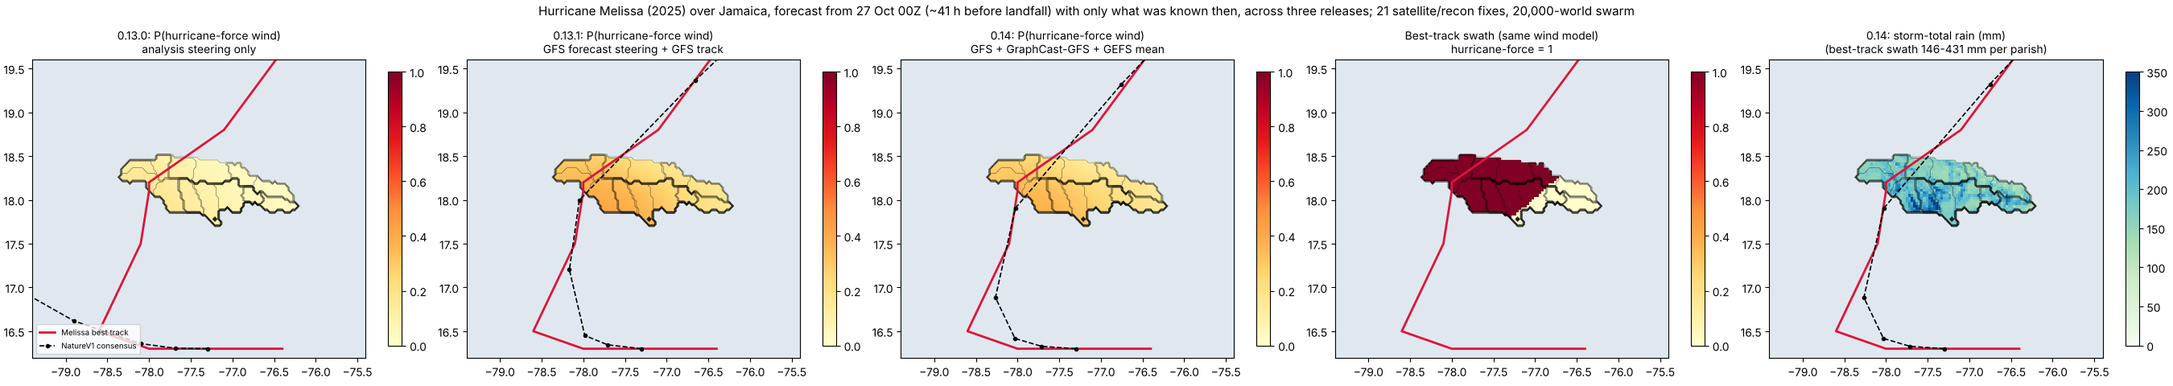
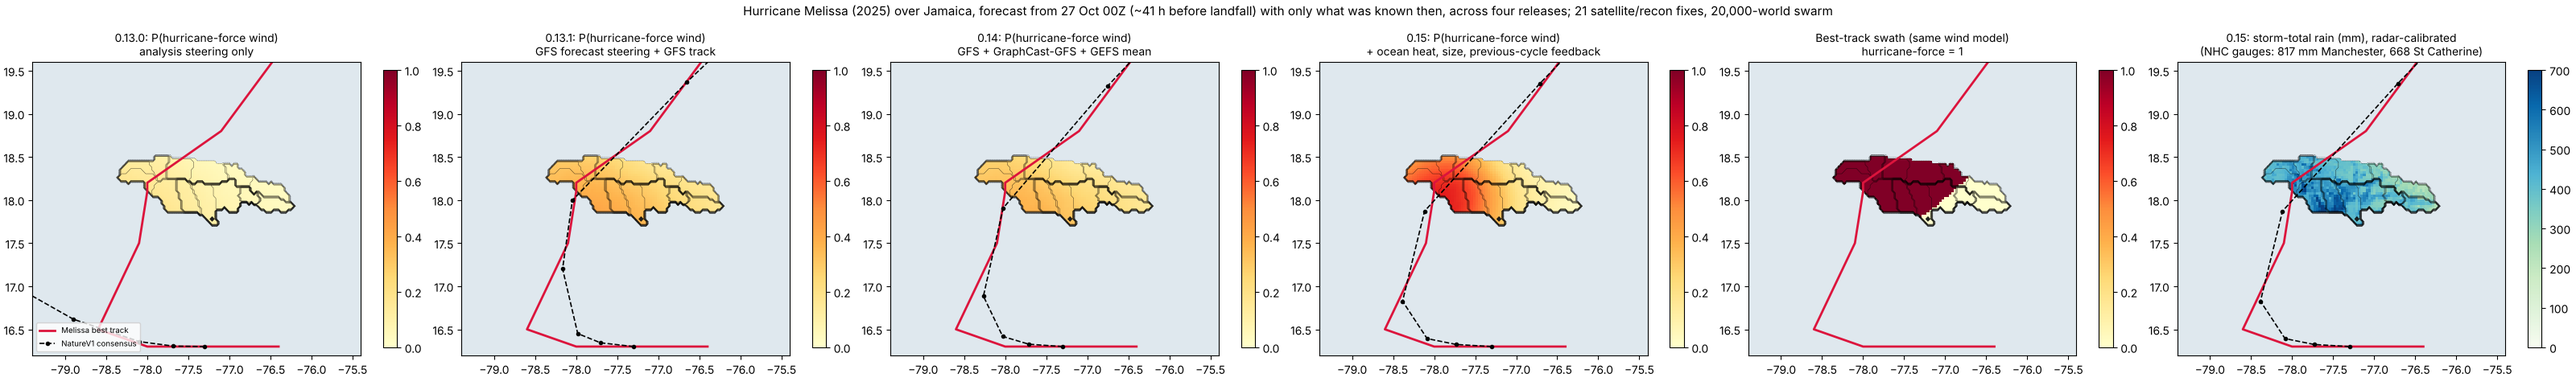
0.15: Melissa replayed cycle by cycle (docs, four-release figure), landfall figure layout
Claude-Session: https://claude.ai/code/session_01J6bgxhzPaCJV6PiUzkT4Vd

diff --git a/natureweather/naturev1/swarm/plot.py b/natureweather/naturev1/swarm/plot.py
@@ -102,14 +102,15 @@ def landfall_figure(run: dict, summary: dict, country: str = "Jamaica", extent=N
     if extent is None:
         ii, jj = np.nonzero(np.isin(region.unit, ids))
         extent = (region.lon[jj.min()] - 1.2, region.lon[jj.max()] + 1.2, region.lat[ii.min()] - 1.0, region.lat[ii.max()] + 1.0)
-    fig = plt.figure(figsize=(16, 7.2), constrained_layout=True)
-    gs = GridSpec(1, 2, width_ratios=[1.25, 1.0], figure=fig)
+    # the map on top at full width, the text panel below it: a wide parish table no longer squeezes the map
+    fig = plt.figure(figsize=(15, 12.5))
+    gs = GridSpec(2, 1, height_ratios=[1.0, 0.95], figure=fig, left=0.05, right=0.98, top=0.95, bottom=0.02, hspace=0.08)
     ax = fig.add_subplot(gs[0, 0])
     ax.set_facecolor("#dfe8ee")
     land = np.where(region.land, 1.0, np.nan)
     ax.pcolormesh(region.lon, region.lat, land, cmap="Greys", vmin=0, vmax=4, shading="auto")
     mesh = ax.pcolormesh(region.lon, region.lat, grid, cmap="YlOrRd", vmin=34, vmax=140, shading="auto")
-    fig.colorbar(mesh, ax=ax, shrink=0.75, label="peak sustained wind if hit (kt)")
+    fig.colorbar(mesh, ax=ax, shrink=0.85, pad=0.02, label="peak sustained wind if hit (kt)")
     ax.contour(region.lon, region.lat, np.where(region.land, region.unit, -1), levels=np.arange(-0.5, len(region.names)), colors="k", linewidths=0.3)
     t0 = np.datetime64(run["analysis_time"], "m")
     track = np.vstack([[case.lat, case.lon], result["track"]])
@@ -130,16 +131,16 @@ def landfall_figure(run: dict, summary: dict, country: str = "Jamaica", extent=N
         cells = np.nonzero(region.unit == u)
         if cells[0].size and u in by_unit:
             ax.text(float(region.lon[cells[1]].mean()), float(region.lat[cells[0]].mean()), region.names[u].replace("Saint", "St").split(" Parish")[0],
-                    fontsize=6, ha="center", va="center", color="black")
+                    fontsize=7, ha="center", va="center", color="black")
     ax.set_xlim(extent[0], extent[1]); ax.set_ylim(extent[2], extent[3]); ax.set_aspect(1.0 / np.cos(np.radians(np.mean(extent[2:]))))
-    ax.set_title(f"{case.name or case.storm_id}: {country}, parish by parish -- forecast from {str(t0)[:16].replace('T', ' ')}Z", fontsize=10)
-    ax.legend(loc="lower left", fontsize=7)
-    panel = fig.add_subplot(gs[0, 1])
+    ax.set_title(f"{case.name or case.storm_id}: {country}, parish by parish -- forecast from {str(t0)[:16].replace('T', ' ')}Z", fontsize=12)
+    ax.legend(loc="lower left", fontsize=8)
+    panel = fig.add_subplot(gs[1, 0])
     panel.axis("off")
     from .landfall import format_landfall
 
-    panel.text(0.0, 1.0, format_landfall(summary, top=top), family="monospace", fontsize=7.2, va="top", ha="left", transform=panel.transAxes)
-    panel.text(0.0, 0.0, "Research model, not an operational forecast. Storm surge is not modelled.", fontsize=7, va="bottom", transform=panel.transAxes)
+    panel.text(0.0, 1.0, format_landfall(summary, top=top), family="monospace", fontsize=8.2, va="top", ha="left", transform=panel.transAxes)
+    panel.text(0.0, 0.0, "Research model, not an operational forecast. Storm surge is not modelled.", fontsize=8, va="bottom", transform=panel.transAxes)
     return fig
 
 

diff --git a/natureweather/HF_README.md b/natureweather/HF_README.md
@@ -1028,7 +1028,39 @@ they should, and the swarm's shape (its 50% and 90% radii are 0.79 and 1.47 time
 truth's (0.64-0.79 and 1.50-1.66). Before this the swarm was spreading a Jamaica landfall over the whole western
 Caribbean; a world that misses by 300 km at 24 h no longer counts against the parish in its path.
 
-<!-- PENDING 0.15 melissa -->
+**Melissa, replayed cycle by cycle with 0.15.** GFS, GraphCast-GFS and the GEFS mean (the ECMWF mirror is throttled
+from this network); a 20,000-world swarm; each cycle fed the previous cycle's track. What was issued, against what
+happened (landfall near New Hope, Westmoreland, 18.09N 77.97W, about 17 UTC on 28 October at 160 kt; peak 165 kt at
+12 UTC):
+
+| forecast from | before landfall | P(landfall, Jamaica) | centre ashore, median (10-90%) | consensus landfall | intensity then (10-90%) | the RI branch (its probability) | P(peak ≥ cat 4 / cat 5) | track error 24 / 48 / 72 h |
+|---|---|---|---|---|---|---|---|---|
+| 26 Oct 00 UTC | 65 h | 74% | 28 Oct 03 UTC (27 Oct 18 → 28 Oct 15) | 28 Oct 03 UTC, Clarendon | 104 kt (72-140) | 125 kt at landfall, peak 134 (24%) | 63% / 29% | 42 / 158 / 277 km |
+| 26 Oct 12 UTC | 53 h | 80% | 28 Oct 15 UTC (06 → 21) | 28 Oct 13 UTC, St Elizabeth | 110 kt (79-146) | 152 kt, peak 155 (20%) | 100% / 32% | 19 / 57 / 161 km |
+| 27 Oct 00 UTC | 41 h | 76% | 28 Oct 15 UTC (09 → 21) | 28 Oct 14 UTC, St Elizabeth, 18.12N 77.88W | 110 kt (90-133) | 153 kt, peak 162 (8%) | 100% / 23% | 43 / 74 / 215 km |
+
+![Melissa over Jamaica, parish by parish, from 27 October 00 UTC](melissa_landfall.png)
+
+Where it is now right: the landfall point (10 km from the actual at 41 h out), the landfall time (the median two hours
+early with the actual inside a 12-hour band, where 0.14 had put it eight hours early inside a 30-hour band), the
+parish ranking (at 27 Oct 00 UTC the ten parishes the best-track swath gave hurricane-force wind are the top ten by
+P(HU): St Elizabeth 84%, Westmoreland 77%, Manchester 72%, St James 71%, Trelawny 71%, Hanover 64%, Clarendon 56%,
+St Ann 53%, St Catherine 33%, St Mary 20%; the eastern parishes 9-15%; Brier 0.061 against the swath), and the
+landfall probability itself (76% where 0.14 said 41% from the same cycle -- the swarm sized to the cone, 4.16 above).
+Where it is still wrong, said plainly: the consensus intensity, 125 → 116 → 106 kt over the first 48 h against
+135 → 155 → 165 → 105, is the under-forecast of section 4.16's table made flesh -- a storm in the top few percent of
+intensification over the deepest warm water in the basin. The branch that *was* the storm -- 153 kt at landfall,
+peak 162 -- was on the page from 26 October with its probability (24%, 20%, 8%), and the chance of a category-5
+peak sat at 23-32% through all three cycles; a reader of the report had the right scenario and a fair probability
+for it, not a point forecast that said so. Parish timing ran 3-4 hours early (hurricane force into St Elizabeth at
+09:20 UTC, the peak at 13:17, against an eyewall that arrived mid-afternoon), because the consensus moved the storm
+faster than the crawl it actually made. Rain, if hit / wettest cell against the NHC gauge maximum: Manchester
+563 / 747 against 817 mm, St Elizabeth 547 / 787 against 508, Clarendon 483 / 668 against 530, St Catherine
+432 / 593 against 668, Kingston 424 against 567 -- the right magnitude in the centre and south, now that the
+multiplier is in; too much in the far west, where the storm crossed quickest (Westmoreland 689 against 309,
+Hanover 603 against a single gauge at 146), and too little in the east (Portland 397 against 536), because R-CLIPER
+puts the rain under the strongest wind and Melissa's two days of crawling south of the island fed the Blue Mountains
+and St Catherine instead. `melissa_jamaica.png` shows the four releases side by side from 27 October 00 UTC.
 
 ## 5. Limitations
 

diff --git a/natureweather/README.md b/natureweather/README.md
@@ -283,7 +283,11 @@ swarm mean that every missing world dilutes. The swarm itself is now sized to th
 consensus they cover 64-75%, with the 50% and 90% radii where they should be, so strike, landfall and parish
 probabilities stop being diluted by worlds that miss by hundreds of km. Full tables in the model card, section 4.16.
 
-<!-- PENDING readme 0.15 melissa -->
+**Melissa, 27 October 00 UTC, 41 hours before landfall:** Jamaica landfall probability 76% (0.14: 41%), the consensus
+ashore at 18.12N 77.88W on 28 October 14 UTC (actual: New Hope, 18.09N 77.97W, about 17 UTC), the swarm's median 15 UTC
+inside a 12-hour band; St Elizabeth 84%, Westmoreland 77%, Manchester 72% for hurricane-force wind, the eastern parishes
+9-15%; 110 kt at landfall with the rapid-intensification branch at 153 kt (actual 160) and a 23% chance of a category-5
+peak; Manchester's wettest cell 747 mm against the 817 mm gauge. ![](melissa_landfall.png)
 
 ## Not trained
 
